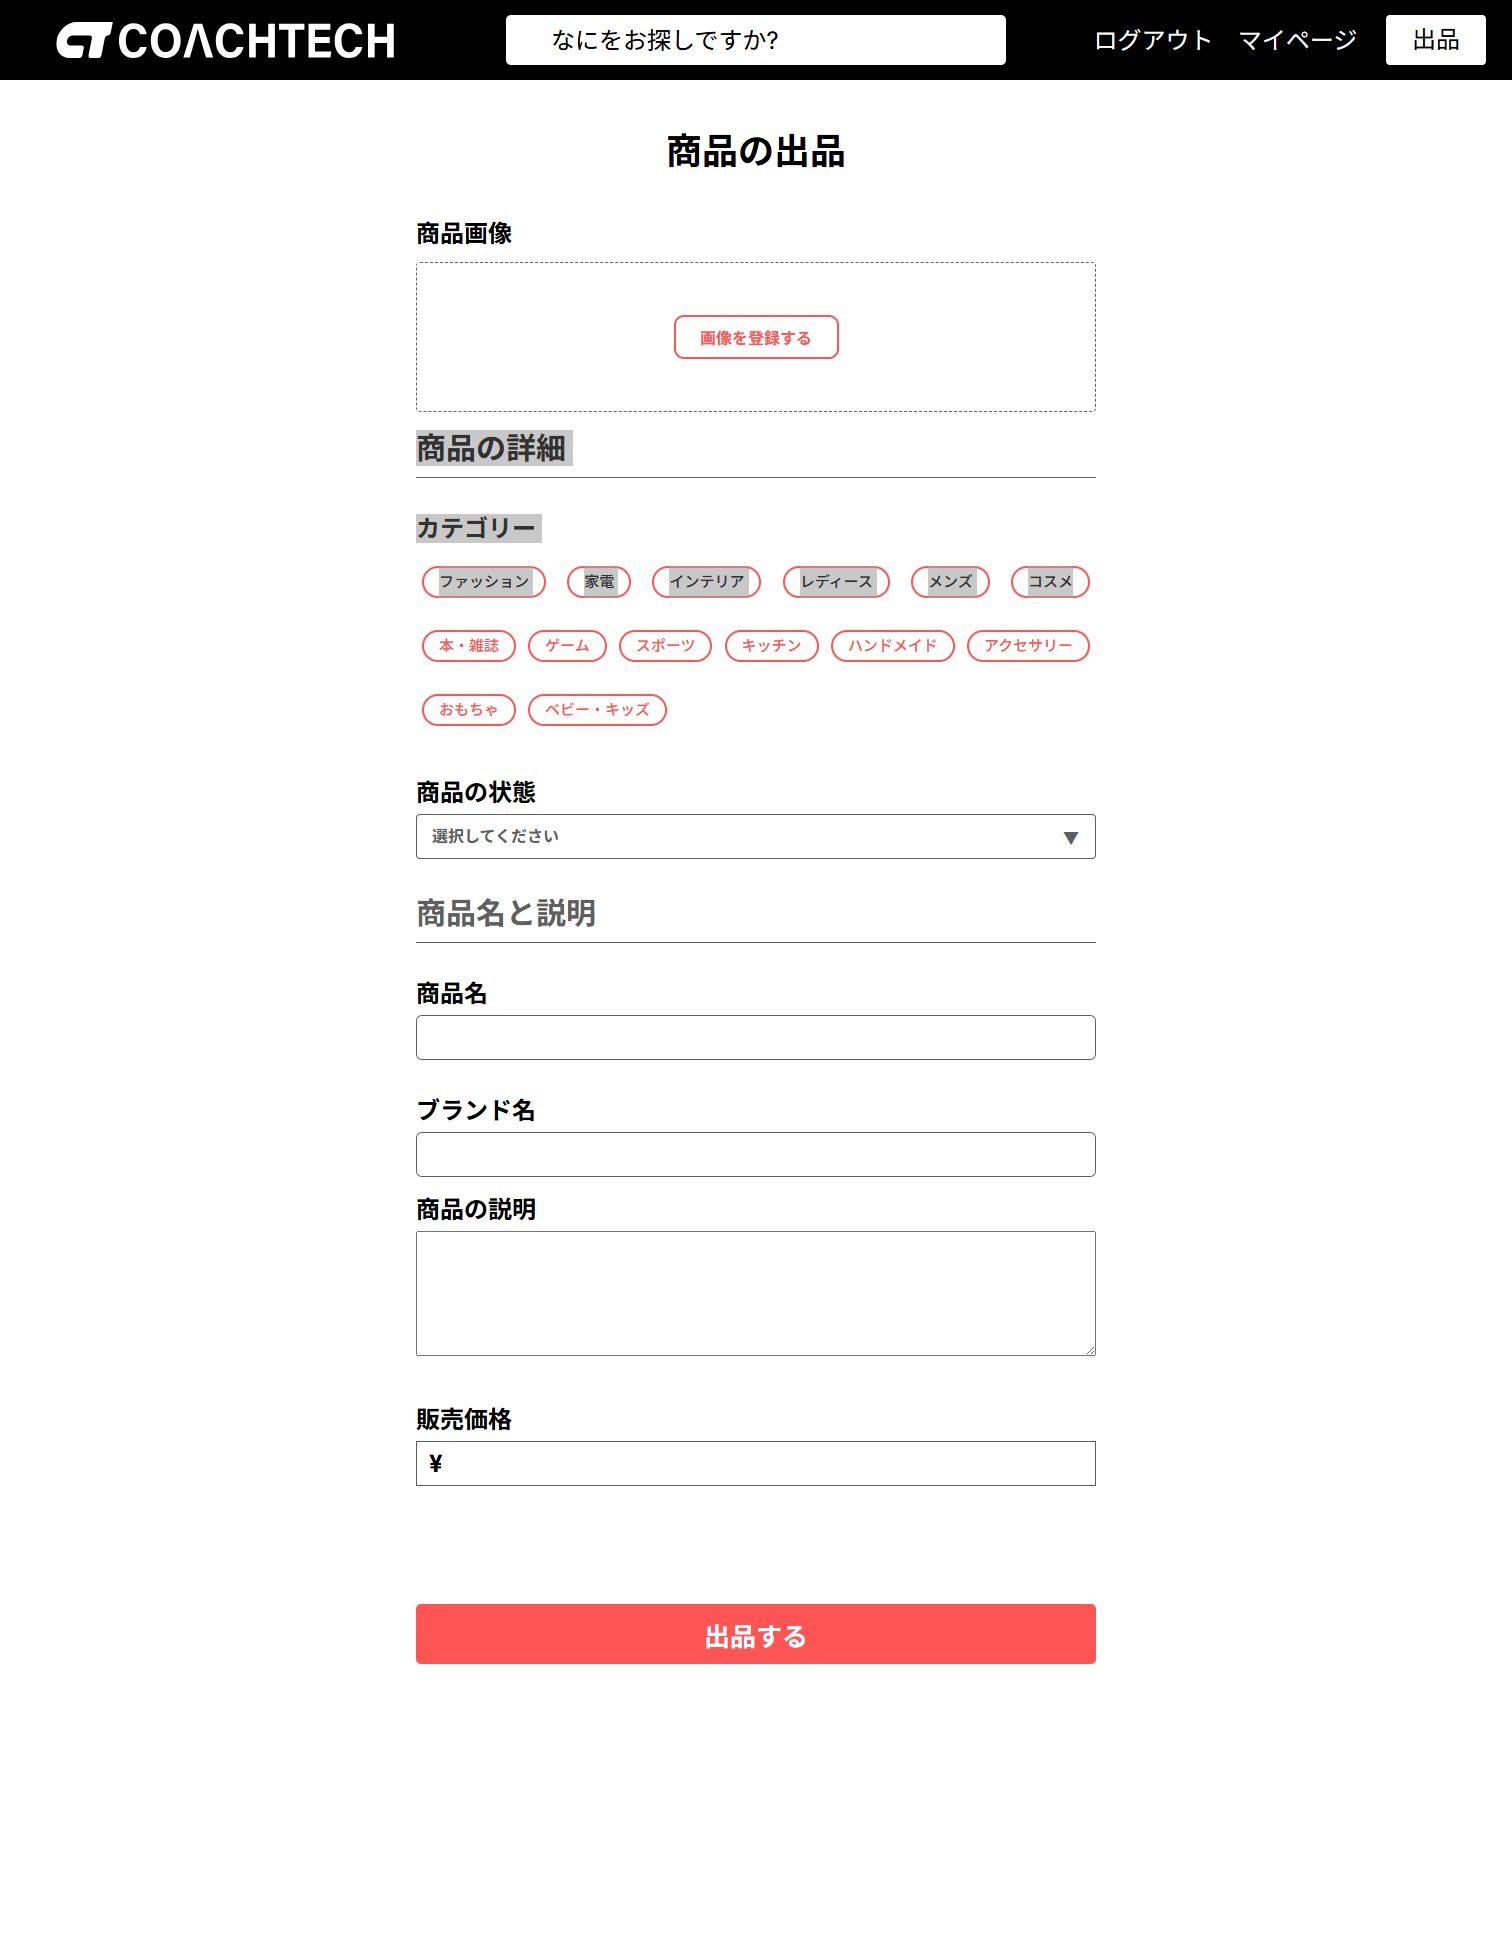
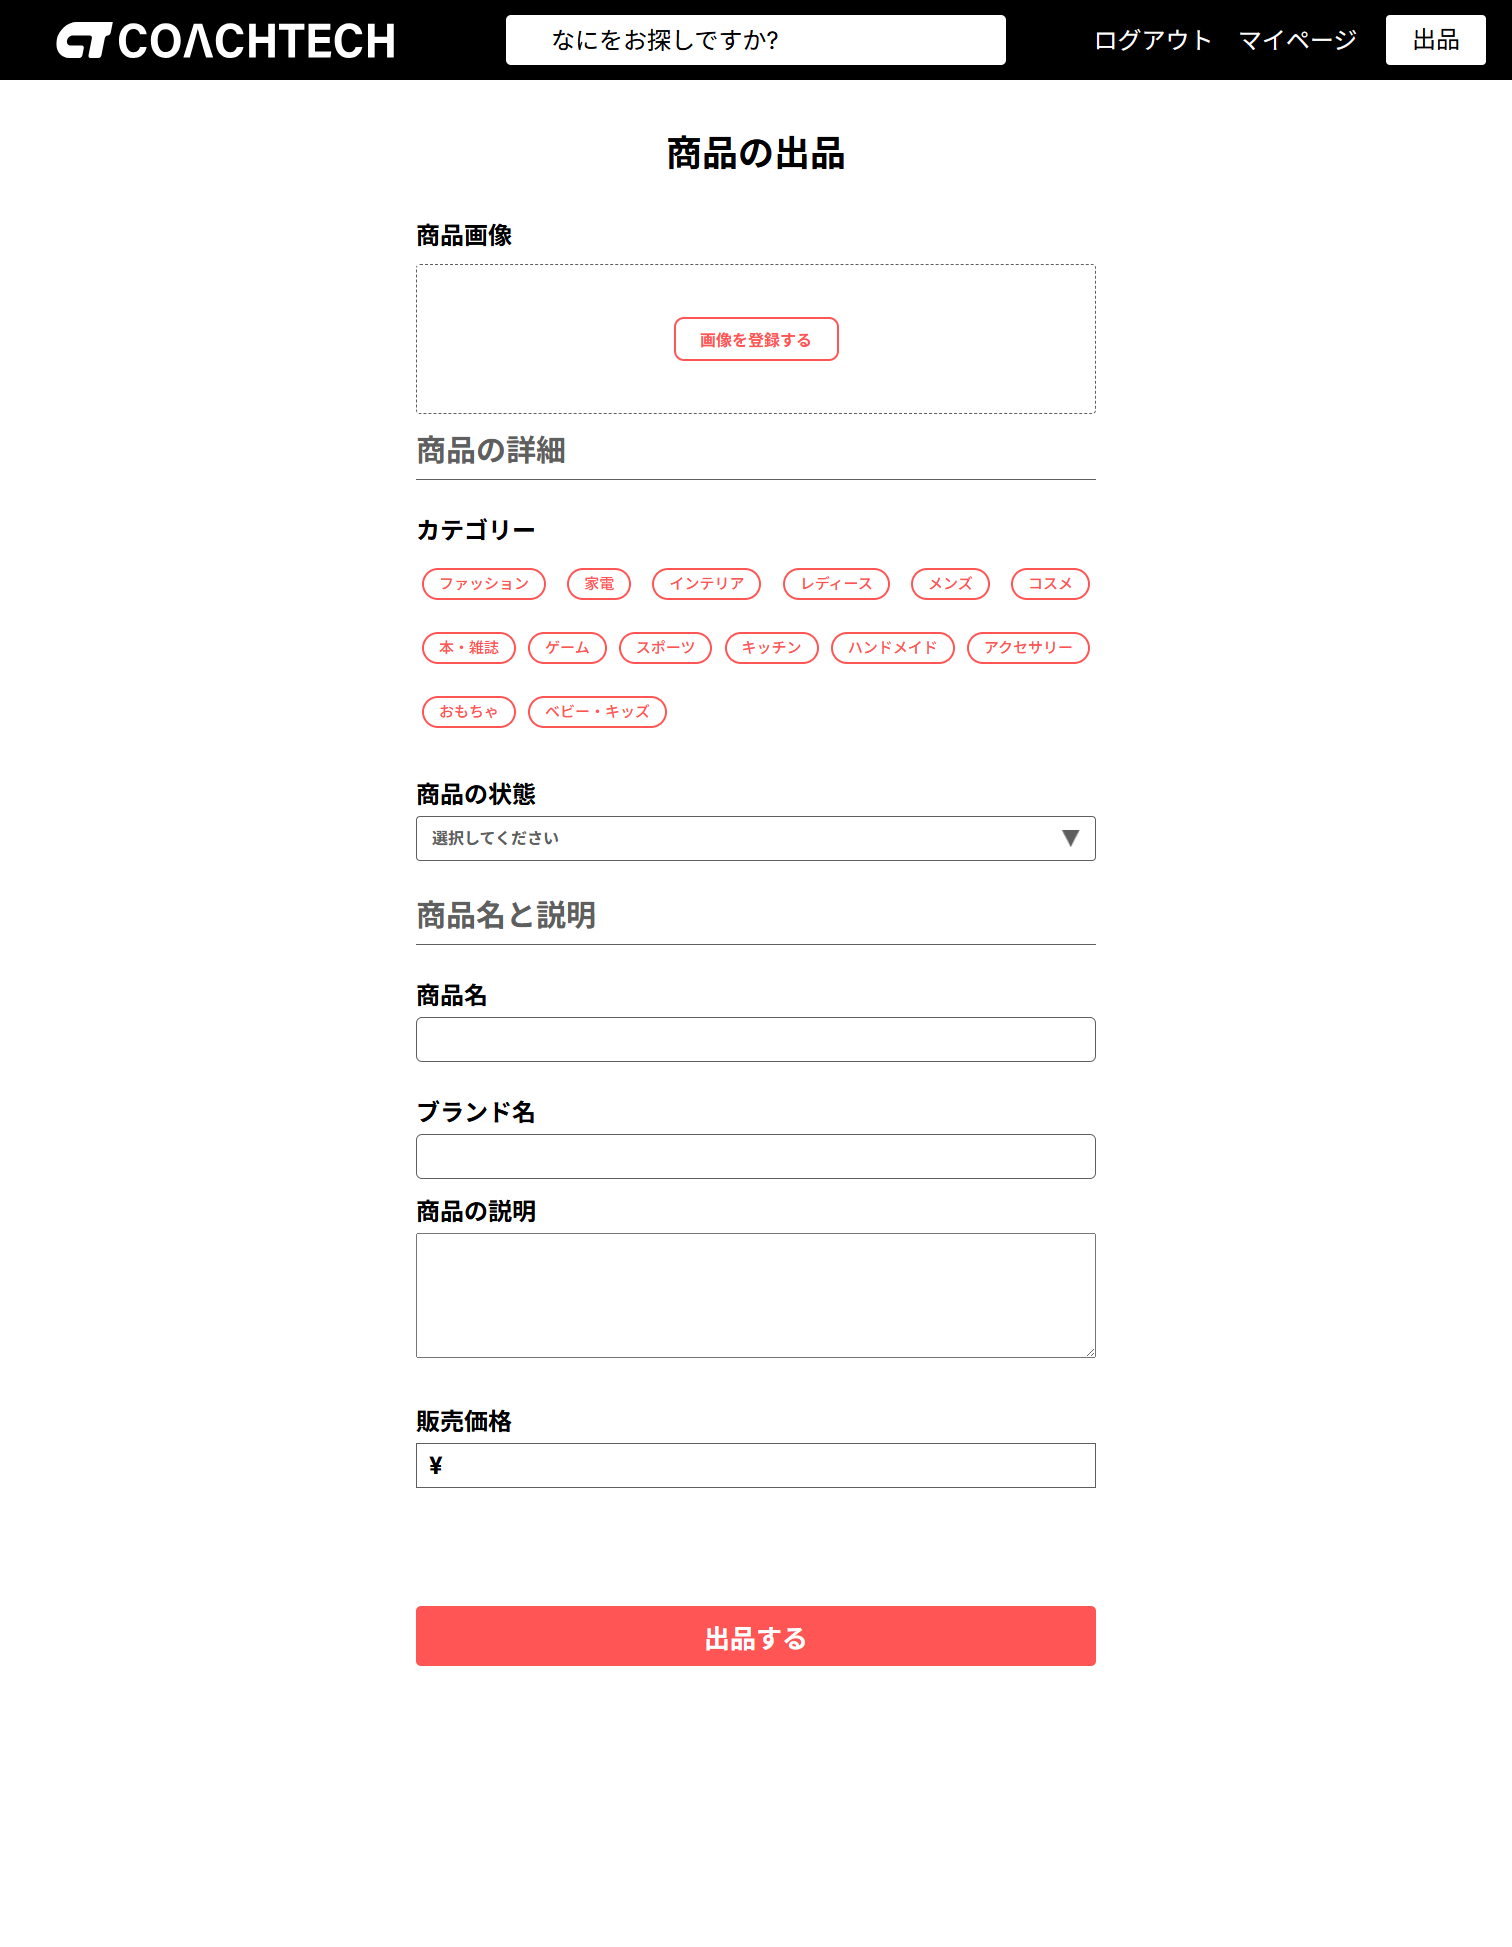
sellイメージ入替

diff --git a/src/public/css/sell.css b/src/public/css/sell.css
@@ -3,7 +3,7 @@
     width: 180px;
     line-height: 44px;
     font-size: 36px;
-    margin: 49px auto 43px;
+    margin: 51px auto 43px;
     text-align: center;
 }
 
@@ -94,7 +94,7 @@
     width: 150px;
     height: 36px;
     font-size: 24px;
-    color: #000000;
+    color: rgba(0, 0, 0, 1);
 }
 
 .form-section-title-container {
